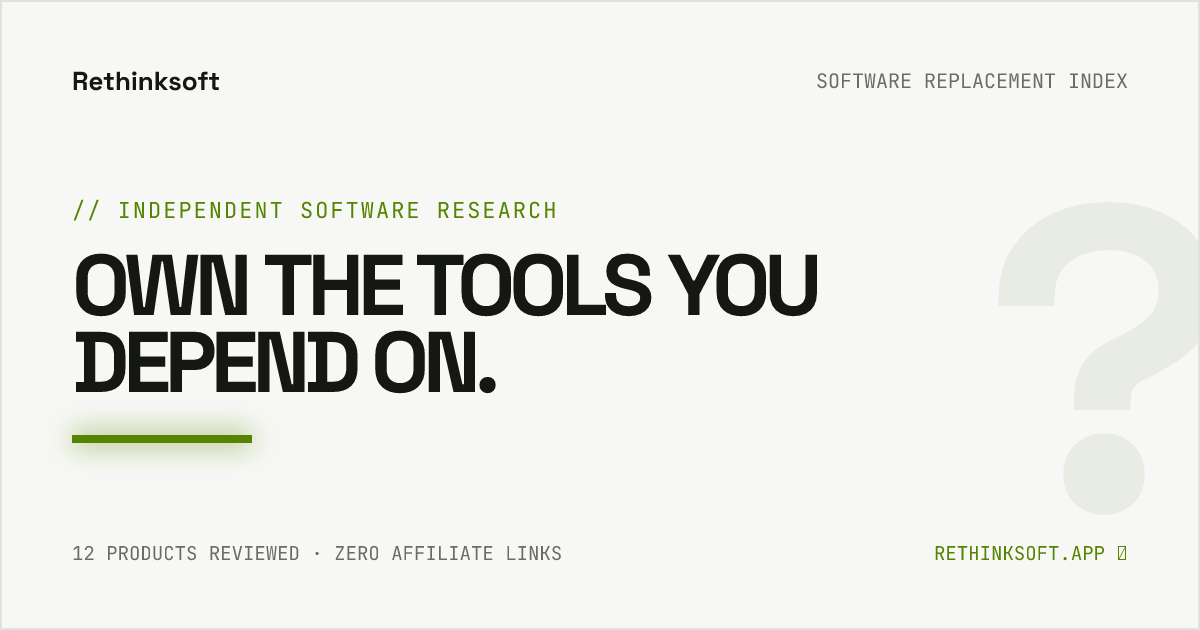
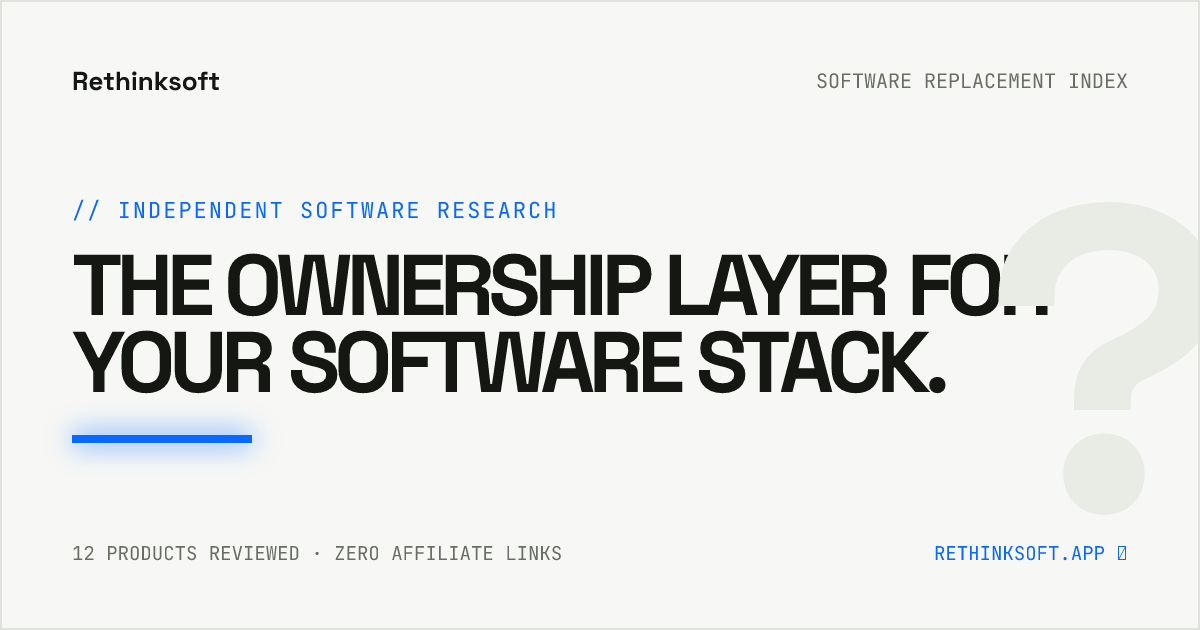
Redesign Rethinksoft with cobalt product storytelling

diff --git a/src/styles/global.css b/src/styles/global.css
@@ -1,11 +1,18 @@
-:root{--bg:#f7f8f5;--surface:#fff;--soft:#f0f2ec;--ink:#151713;--muted:#696e65;--line:#dfe3db;--lime:#b9f227;--lime-dark:#548400;--amber:#c97812;--red:#d64c46;--radius:16px;--shadow:0 18px 55px rgba(24,30,20,.08);color-scheme:light}
+:root{--bg:#fff;--surface:#fff;--soft:#f4f7fb;--ink:#111318;--muted:#646b78;--line:#e2e7ef;--lime:#0868ff;--lime-dark:#0055dc;--amber:#c97812;--red:#d64c46;--radius:14px;--shadow:0 18px 55px rgba(12,45,95,.09);color-scheme:light}
 *{box-sizing:border-box}html{scroll-behavior:smooth}body{margin:0;background:var(--bg);color:var(--ink);font-family:'JetBrains Mono',monospace;font-size:14px;line-height:1.65;overflow-x:hidden}a{color:inherit;text-decoration:none}button,input{font:inherit}button{color:inherit}.sr-only{position:absolute!important;width:1px!important;height:1px!important;padding:0!important;margin:-1px!important;overflow:hidden!important;clip:rect(0,0,0,0)!important;white-space:nowrap!important;border:0!important}.container{width:min(1180px,calc(100% - 48px));margin-inline:auto}
-.site-header{height:78px;display:flex;align-items:center;justify-content:space-between;padding:0 max(24px,calc((100vw - 1180px)/2));border-bottom:1px solid var(--line);position:sticky;top:0;z-index:20;background:rgba(247,248,245,.9);backdrop-filter:blur(18px)}.brand{display:inline-flex;align-items:center;gap:10px;font:700 20px 'Space Grotesk',sans-serif;letter-spacing:-.04em}.brand-mark{display:grid;place-items:center;width:32px;height:32px;border-radius:9px;background:var(--ink);color:var(--lime);font:700 17px 'Space Grotesk';box-shadow:inset 0 0 0 1px rgba(255,255,255,.15)}nav{display:flex;gap:28px;align-items:center;font:600 13px 'Space Grotesk';color:var(--muted)}nav a:hover{color:var(--ink)}.nav-cta{padding:10px 15px;border-radius:10px;background:var(--ink);color:#fff!important}.nav-cta:hover{transform:translateY(-1px);box-shadow:0 8px 22px rgba(20,23,19,.15)}main{min-height:70vh}
+.site-header{height:72px;display:flex;align-items:center;justify-content:space-between;padding:0 max(24px,calc((100vw - 1180px)/2));border-bottom:1px solid var(--line);position:sticky;top:0;z-index:20;background:rgba(255,255,255,.9);backdrop-filter:blur(18px)}.brand{display:inline-flex;align-items:center;gap:10px;font:700 18px 'Space Grotesk',sans-serif;letter-spacing:-.04em}.brand-mark{display:grid;place-items:center;width:30px;height:30px;border-radius:8px;background:var(--lime);color:#fff;font:700 16px 'Space Grotesk';box-shadow:0 5px 18px rgba(8,104,255,.22)}nav{display:flex;gap:26px;align-items:center;font:600 12px 'Space Grotesk';color:var(--muted)}nav a:hover{color:var(--ink)}.nav-cta{padding:10px 15px;border-radius:8px;background:var(--lime);color:#fff!important}.nav-cta:hover{transform:translateY(-1px);box-shadow:0 8px 22px rgba(8,104,255,.22)}main{min-height:70vh}
 .eyebrow{display:flex;align-items:center;gap:8px;color:var(--lime-dark);font-size:11px;letter-spacing:.1em;text-transform:uppercase;margin:0 0 16px;font-weight:600}.eyebrow::before{content:'';width:18px;height:2px;background:var(--lime-dark)}h1,h2,h3{font-family:'Space Grotesk',sans-serif;letter-spacing:-.055em;line-height:1;margin:0}h1{font-size:clamp(58px,8.5vw,112px);font-weight:700}h2{font-size:clamp(38px,5vw,64px)}h3{font-size:23px}.hero{padding:112px 0 80px;position:relative}.hero::after{content:'';position:absolute;width:250px;height:250px;border-radius:50%;right:0;top:80px;background:radial-gradient(circle,var(--lime) 0 2px,transparent 3px);background-size:16px 16px;opacity:.42;z-index:-1;mask-image:linear-gradient(135deg,#000,transparent 75%)}.hero h1{max-width:1000px}.hero h1 em{font-style:normal;color:var(--lime-dark)}.hero-copy{display:grid;grid-template-columns:1.35fr .65fr;gap:70px;align-items:end;margin-top:38px}.hero-copy>p{max-width:680px;color:var(--muted);font:500 19px/1.6 'Space Grotesk'}.hero-stat{border-left:1px solid var(--line);padding-left:28px}.hero-stat strong{display:block;font:700 42px 'Space Grotesk';letter-spacing:-.05em}.hero-stat span{color:var(--muted);font-size:10px;letter-spacing:.07em}.search-shell{margin-top:52px;position:relative}.search-shell::before{content:'⌕';position:absolute;left:22px;top:15px;font:28px 'Space Grotesk';color:var(--ink);z-index:2}.hero-search{width:100%;height:64px;background:var(--surface);color:var(--ink);border:1px solid var(--line);border-radius:14px;padding:0 130px 0 58px;outline:none;box-shadow:0 12px 35px rgba(25,31,21,.06);font-family:'Space Grotesk';font-size:16px}.hero-search:focus{border-color:var(--lime-dark);box-shadow:0 0 0 4px rgba(185,242,39,.18)}.search-key{position:absolute;right:14px;top:14px;padding:6px 10px;border:1px solid var(--line);border-radius:7px;font-size:10px;color:var(--muted);background:var(--soft)}.chips{display:flex;gap:8px;flex-wrap:wrap;margin-top:18px}.chip{border:1px solid var(--line);border-radius:999px;background:var(--surface);padding:8px 12px;cursor:pointer;color:var(--muted);font-size:10px;transition:.18s}.chip:hover,.chip.active{color:var(--ink);border-color:#9bcf11;background:rgba(185,242,39,.18);transform:translateY(-1px)}
 .ticker{width:min(1180px,calc(100% - 48px));margin:0 auto;border:1px solid var(--line);border-radius:var(--radius);background:var(--surface);box-shadow:var(--shadow);overflow:hidden}.ticker-top{display:flex;align-items:stretch}.ticker-label{padding:24px 28px;background:var(--lime);color:var(--ink);font-weight:600;font-size:11px;display:flex;align-items:center;white-space:nowrap}.odometer-wrap{padding:16px 30px;display:flex;align-items:center;gap:12px}.odometer{font:700 clamp(34px,5vw,56px)/1 'Space Grotesk';letter-spacing:-.045em;font-variant-numeric:tabular-nums}.odometer-wrap small{color:var(--muted);font-size:9px}.tape{border-top:1px solid var(--line);padding:8px 0;white-space:nowrap;overflow:hidden;font-size:10px;color:var(--muted);background:var(--soft)}.tape-track{display:inline-flex;gap:40px;animation:tape 34s linear infinite}.tape b{color:var(--lime-dark);font-weight:600}
 .section{padding:110px 0}.section-head{display:flex;align-items:end;justify-content:space-between;margin-bottom:38px;gap:30px}.section-head p{max-width:470px;color:var(--muted);margin:0;font-family:'Space Grotesk';font-size:16px}.table-shell{border:1px solid var(--line);border-radius:var(--radius);background:var(--surface);box-shadow:var(--shadow);overflow:hidden}.list-header,.app-row{display:grid;grid-template-columns:70px 1.75fr 1fr 100px 130px 90px;align-items:center}.list-header{min-height:46px;padding:0 20px;border-bottom:1px solid var(--line);color:var(--muted);font-size:9px;letter-spacing:.09em;background:var(--soft)}.app-row{min-height:82px;padding:0 20px;border-bottom:1px solid var(--line);transition:.18s}.app-row:last-child{border:0}.app-row:hover{background:#fbfcf9;transform:translateX(4px)}.rank{color:#9ba097}.app-id{display:flex;align-items:center;gap:14px;font:600 16px 'Space Grotesk'}.favicon{width:36px;height:36px;border:1px solid var(--line);border-radius:9px;background:var(--surface);padding:6px;object-fit:contain}.category,.price,.votes{font-size:11px;color:var(--muted)}.votes{color:var(--ink);font-weight:600}.votes::before{content:'↑';color:var(--lime-dark);margin-right:5px}.verdict{display:inline-flex;width:max-content;border-radius:999px;padding:5px 9px;font-size:9px;font-weight:600;letter-spacing:.04em}.verdict-yes{color:#3f6e00;background:#e7f8be}.verdict-kinda{color:#925208;background:#fff0d6}.verdict-no{color:#a93a35;background:#fde4e2}.empty-state{display:none;padding:45px;text-align:center;color:var(--muted)}
 .waitlist{padding:30px 0 110px}.wait-card{display:grid;grid-template-columns:1fr 1fr;gap:70px;border-radius:24px;padding:62px;background:var(--ink);color:#fff;box-shadow:var(--shadow)}.wait-card .eyebrow{color:var(--lime)}.wait-card .eyebrow::before{background:var(--lime)}.wait-card p{color:#abb0a7}.wait-form{display:flex;align-items:center;margin-top:24px}.wait-form input[type=email]{flex:1;min-width:0;background:#fff;border:0;border-radius:10px 0 0 10px;padding:15px;color:var(--ink);outline:none}.button{border:0;border-radius:10px;background:var(--lime);color:var(--ink);padding:15px 20px;font-weight:600;cursor:pointer;display:inline-flex;align-items:center;justify-content:center;gap:8px;transition:.18s}.wait-form .button{border-radius:0 10px 10px 0}.button:hover{transform:translateY(-2px);box-shadow:0 10px 24px rgba(185,242,39,.24)}.button:active{transform:scale(.98)}.button.secondary{background:var(--soft);color:var(--ink);border:1px solid var(--line)}.form-note{font-size:10px;min-height:1.6em}.hp{position:absolute!important;left:-9999px!important}
 .site-footer{border-top:1px solid var(--line);padding:64px max(24px,calc((100vw - 1180px)/2)) 28px;background:var(--surface)}.footer-grid{display:grid;grid-template-columns:1.5fr .6fr 1fr;gap:50px}.footer-grid p,.footer-grid a{display:block;color:var(--muted);font-size:11px}.footer-grid a:hover{color:var(--lime-dark)}.footer-line{border-top:1px solid var(--line);margin-top:48px;padding-top:22px;display:flex;justify-content:space-between;color:var(--muted);font-size:10px}.footer-line i{display:inline-block;width:7px;height:7px;background:#70bd00;border-radius:50%;margin-right:6px}
 .crumbs{padding:28px 0;font-size:10px;color:var(--muted)}.crumbs a:hover{color:var(--lime-dark)}.detail-hero{padding:52px 0 86px;border-bottom:1px solid var(--line);background:linear-gradient(180deg,#fff,var(--bg))}.detail-top{display:grid;grid-template-columns:1fr auto;gap:40px;align-items:start}.detail-brand{display:flex;align-items:center;gap:18px;margin-bottom:32px}.detail-brand .favicon{width:54px;height:54px}.detail-brand span{color:var(--muted)}.verdict-display{text-align:right}.verdict-display .eyebrow{justify-content:flex-end;margin-bottom:14px}.verdict-big{font:700 clamp(52px,9vw,112px)/.85 'Space Grotesk';letter-spacing:-.075em}.verdict-big.yes{color:#5f9500}.verdict-big.kinda{color:var(--amber)}.verdict-big.no{color:var(--red)}.detail-summary{display:grid;grid-template-columns:1fr 350px;gap:70px;align-items:end;margin-top:56px}.detail-summary p{font:500 20px/1.55 'Space Grotesk';color:var(--muted);max-width:720px}.metric-box{border:1px solid var(--line);border-radius:12px;display:grid;grid-template-columns:1fr 1fr;background:var(--surface);overflow:hidden}.metric{padding:20px;border-right:1px solid var(--line)}.metric:last-child{border:0}.metric strong{display:block;font:700 27px 'Space Grotesk'}.metric span{font-size:8px;color:var(--muted);letter-spacing:.06em}.detail-grid{display:grid;grid-template-columns:minmax(0,1.6fr) minmax(270px,.65fr);gap:50px;padding:90px 0}.block{margin-bottom:72px}.block-head{display:flex;justify-content:space-between;align-items:end;margin-bottom:22px}.block-head p{font-size:9px;color:var(--muted)}.code-wrap{border:1px solid var(--line);border-radius:14px;background:var(--surface);box-shadow:var(--shadow);overflow:hidden}.code-toolbar{display:flex;align-items:center;justify-content:space-between;border-bottom:1px solid var(--line);padding:11px 14px;color:var(--muted);font-size:9px;background:var(--soft)}.dots{display:flex;gap:5px}.dots i{width:7px;height:7px;border-radius:50%;background:#bec3b9}.dots i:first-child{background:#ec817b}.dots i:nth-child(2){background:#e6b85d}.dots i:last-child{background:#8fca47}pre{margin:0;padding:28px;white-space:pre-wrap;word-break:break-word;color:#394035;font:12px/1.85 'JetBrains Mono';max-height:430px;overflow:auto}.agent-buttons{display:grid;grid-template-columns:repeat(3,1fr);gap:9px;margin-top:10px}.copy-button{border:1px solid var(--line);border-radius:9px;background:var(--surface);padding:12px;cursor:pointer;font-size:9px;transition:.18s}.copy-button:hover,.copy-button.copied{border-color:#98cb10;color:#4b7800;transform:translateY(-2px)}.loss-list{list-style:none;margin:0;padding:0;border-top:1px solid var(--line)}.loss-list li{padding:18px 0;border-bottom:1px solid var(--line);display:flex;gap:13px;font-family:'Space Grotesk';font-size:16px}.loss-list li::before{content:'×';color:var(--red);font-weight:600}.notes{border-left:3px solid var(--lime);padding:8px 0 8px 22px;color:var(--muted);font-family:'Space Grotesk';font-size:17px}.side-card{border:1px solid var(--line);border-radius:14px;padding:26px;margin-bottom:18px;background:var(--surface);position:sticky;top:104px;box-shadow:var(--shadow)}.side-card h3{font-size:22px;margin-bottom:10px}.side-card p{font-size:11px;color:var(--muted)}.vote-button{width:100%;margin-top:14px}.vote-button.voted{background:#e4f7b9;color:#456f00}.share-button{width:100%;margin-top:8px}.prior-links a{display:flex;justify-content:space-between;border-top:1px solid var(--line);padding:15px 0;font-size:11px}.prior-links a:hover{color:var(--lime-dark);padding-left:5px}.related-grid{display:grid;grid-template-columns:repeat(3,1fr);gap:14px}.related{border:1px solid var(--line);border-radius:12px;padding:20px;background:var(--surface);transition:.18s}.related:hover{transform:translateY(-5px);border-color:#a3d51d;box-shadow:var(--shadow)}.related .favicon{margin-bottom:20px}.related p{color:var(--muted);font-size:10px}.faq details{border-top:1px solid var(--line);padding:22px 0}.faq details:last-child{border-bottom:1px solid var(--line)}.faq summary{cursor:pointer;font-family:'Space Grotesk';font-weight:700;font-size:18px;list-style:none}.faq summary::after{content:'+';float:right;color:var(--lime-dark)}.faq details[open] summary::after{content:'−'}.faq details p{color:var(--muted);max-width:750px;font-family:'Space Grotesk';font-size:16px}.reveal{opacity:0;transform:translateY(14px);transition:opacity .5s ease,transform .5s ease}.reveal.visible{opacity:1;transform:none}
+/* Supermemory-inspired product storytelling */
+.hero{text-align:center;padding:104px 0 72px}.hero::after{width:420px;height:260px;right:50%;top:65px;transform:translateX(50%);background:radial-gradient(circle,rgba(8,104,255,.22) 0 1px,transparent 2px);background-size:14px 14px;opacity:.65;mask-image:radial-gradient(ellipse,#000,transparent 68%)}.hero .eyebrow{justify-content:center;margin-top:22px}.hero-badge{display:inline-flex;align-items:center;gap:8px;border:1px solid #d9e5f8;border-radius:999px;background:#f7faff;padding:6px 10px;color:#536174;font-size:9px;text-transform:uppercase;letter-spacing:.07em}.hero-badge span{width:6px;height:6px;border-radius:50%;background:var(--lime);box-shadow:0 0 0 4px rgba(8,104,255,.12)}.hero h1{max-width:1050px;margin:0 auto;font-size:clamp(58px,7.8vw,104px);line-height:.96}.hero h1 em{color:var(--lime);font-style:normal;position:relative;white-space:nowrap}.hero h1 em::after{content:'';position:absolute;left:-8px;right:-8px;bottom:-2px;height:10px;border:1px solid rgba(8,104,255,.35);border-top:0}.hero-lede{max-width:720px;margin:32px auto 0;color:var(--muted);font:500 18px/1.6 'Space Grotesk'}.hero-actions{display:flex;justify-content:center;align-items:center;gap:22px;margin-top:26px}.hero-actions .button{background:var(--lime);color:#fff;padding:13px 19px;border-radius:7px}.text-link{font:600 12px 'Space Grotesk';color:var(--muted)}.text-link:hover{color:var(--lime)}.hero .search-shell{max-width:850px;margin:48px auto 0}.hero .chips{justify-content:center;max-width:980px;margin:16px auto 0}.trust-row{display:flex;justify-content:center;align-items:center;gap:28px;margin-top:34px;color:#9097a3;font-size:9px;text-transform:uppercase;letter-spacing:.05em}.trust-row span{color:#555f6d}.trust-row b{font-weight:500;position:relative}.trust-row b::before{content:'✓';color:var(--lime);margin-right:6px}
+.blue-stage{height:390px;margin-top:10px;position:relative;display:grid;place-items:center;overflow:hidden;background:radial-gradient(circle at 50% 85%,#096dff 0,#044cca 28%,#071e65 65%,#05091a 100%);border-block:1px solid #0a5ae2}.stage-grid{position:absolute;inset:0;background-image:linear-gradient(rgba(255,255,255,.05) 1px,transparent 1px),linear-gradient(90deg,rgba(255,255,255,.05) 1px,transparent 1px);background-size:42px 42px;mask-image:radial-gradient(circle at center,#000,transparent 70%)}.stage-orbit{position:absolute;border:1px solid rgba(116,179,255,.3);border-radius:50%}.orbit-one{width:500px;height:500px}.orbit-two{width:730px;height:230px;transform:rotate(-8deg)}.stage-core{position:relative;z-index:3;width:176px;height:176px;border-radius:36px;display:flex;flex-direction:column;align-items:center;justify-content:center;background:rgba(255,255,255,.96);box-shadow:0 35px 90px rgba(0,0,0,.35),0 0 80px rgba(54,137,255,.45);transform:rotate(-4deg)}.stage-core .brand-mark{width:50px;height:50px;font-size:26px;margin-bottom:15px}.stage-core b{font:700 18px 'Space Grotesk';letter-spacing:-.04em}.stage-core small{font-size:7px;color:var(--muted);margin-top:4px}.stage-card{position:absolute;z-index:2;width:170px;padding:17px;border:1px solid rgba(255,255,255,.25);border-radius:12px;background:rgba(255,255,255,.94);box-shadow:0 20px 60px rgba(0,0,0,.25);display:grid}.stage-card small{color:var(--muted);font-size:9px}.stage-card strong{font:700 28px 'Space Grotesk';color:var(--lime);margin:8px 0}.stage-card span{font-size:8px;color:#87909d}.stage-left{left:calc(50% - 370px);top:80px;transform:rotate(5deg)}.stage-right{right:calc(50% - 370px);bottom:58px;transform:rotate(-5deg)}
+.ticker{margin-top:-32px;position:relative;z-index:4}.ticker-label{background:var(--lime);color:#fff}.odometer{color:var(--lime)}.tape b{color:var(--lime)}.centered-head{display:block;text-align:center}.centered-head .eyebrow{justify-content:center}.centered-head>p{margin:20px auto 0}.decision-section{padding-top:125px}.decision-grid{display:grid;grid-template-columns:repeat(3,1fr);gap:14px}.decision-card{min-height:400px;border:1px solid var(--line);background:#f7faff;padding:26px;display:flex;flex-direction:column}.decision-card.featured{background:var(--lime);color:#fff;border-color:var(--lime)}.decision-card .card-index{font-size:9px;opacity:.65}.decision-card h3{margin-top:auto}.decision-card>p{font:500 14px/1.55 'Space Grotesk';color:var(--muted);margin-bottom:0}.decision-card.featured>p{color:rgba(255,255,255,.78)}.mini-verdict,.mini-code,.mini-loss{height:200px;margin:28px 0;display:flex;align-items:center;justify-content:center}.mini-verdict{gap:8px}.mini-verdict i{font:700 11px 'Space Grotesk';font-style:normal;border:1px solid rgba(255,255,255,.5);padding:9px 11px;background:rgba(255,255,255,.12)}.mini-verdict i:nth-child(2){transform:translateY(-22px);background:#fff;color:var(--lime);box-shadow:0 15px 35px rgba(0,35,110,.2)}.mini-code{background:#fff;border:1px solid #dee7f5;flex-direction:column;align-items:flex-start;padding:35px;gap:13px;box-shadow:0 15px 40px rgba(26,74,145,.08)}.mini-code i{display:block;height:8px;border-radius:3px;background:#dbe7f8;width:88%}.mini-code i:nth-child(2){width:62%;background:#77aefb}.mini-code i:nth-child(3){width:76%}.mini-code i:nth-child(4){width:45%}.mini-loss{display:grid;grid-template-columns:25px 1fr;align-content:center;gap:11px;background:#fff;border:1px solid #e1e9f4;padding:28px}.mini-loss i{font-style:normal;color:#e2625d}.mini-loss span{font:600 12px 'Space Grotesk';color:#566070}
+.how-section{background:#eef6ff;border-block:1px solid #d9e9ff}.how-grid{display:grid;grid-template-columns:repeat(3,1fr);gap:14px}.how-card{background:#fff;border:1px solid #dbe8f8;padding:24px}.how-card>small{font-size:9px;color:var(--lime)}.how-card h3{font-size:23px;margin:12px 0}.how-card p{font:500 14px/1.55 'Space Grotesk';color:var(--muted)}.how-visual{height:230px;margin-bottom:25px;background:#f3f8ff;border:1px solid #e1ecfa;position:relative;overflow:hidden}.visual-search{display:flex;flex-direction:column;justify-content:center;padding:45px;gap:12px}.visual-search span{position:absolute;right:35px;top:35px;font:700 38px 'Space Grotesk';color:var(--lime)}.visual-search i{height:12px;background:#cfe2fb;width:75%}.visual-search i:nth-of-type(2){width:55%}.visual-search i:nth-of-type(3){width:65%;background:#7cb1fb}.visual-decide{display:flex;align-items:center;justify-content:center;gap:8px}.visual-decide span{padding:12px 10px;background:#fff;border:1px solid #d9e6f7;font:700 9px 'Space Grotesk';color:#728094}.visual-decide span:nth-child(2){background:var(--lime);color:#fff;border-color:var(--lime);transform:translateY(-25px);box-shadow:0 15px 30px rgba(8,104,255,.23)}.visual-build{display:flex;flex-direction:column;gap:14px;justify-content:center;padding:48px}.visual-build i{height:9px;width:75%;background:#cfe1fa}.visual-build i:nth-child(2){width:56%}.visual-build i:nth-child(3){width:68%}.visual-build b{position:absolute;right:32px;bottom:30px;display:grid;place-items:center;width:42px;height:42px;border-radius:50%;background:var(--lime);color:#fff;font-size:20px}.wait-card{background:linear-gradient(135deg,#0868ff,#034ab9)}.wait-card .eyebrow{color:#fff}.wait-card .eyebrow::before{background:#fff}.button{background:var(--lime);color:#fff}.button.secondary{color:var(--ink)}
 @keyframes tape{to{transform:translateX(-50%)}}@media(prefers-reduced-motion:reduce){*,*::before,*::after{scroll-behavior:auto!important;animation-duration:.01ms!important;animation-iteration-count:1!important;transition-duration:.01ms!important}.reveal{opacity:1;transform:none}}
 @media(max-width:800px){.site-header{height:68px;padding:0 20px}.site-header nav a:not(.nav-cta){display:none}.nav-cta{font-size:11px}.container,.ticker{width:min(100% - 32px,1180px)}.hero{padding:72px 0 55px}.hero::after{display:none}.hero-copy,.wait-card,.detail-summary,.detail-grid{grid-template-columns:1fr}.hero-copy{gap:20px}.hero-stat{border-left:0;border-top:1px solid var(--line);padding:18px 0 0}.ticker-top{display:block}.ticker-label{padding:10px 20px}.list-header{display:none}.app-row{grid-template-columns:38px 1fr auto;gap:8px;min-height:88px;padding:10px 14px}.app-row .category,.app-row .price,.app-row .votes{display:none}.app-row .verdict{justify-self:end}.section{padding:74px 0}.section-head{display:block}.section-head p{margin-top:18px}.wait-card{padding:34px;gap:26px}.wait-form{display:block}.wait-form input[type=email],.wait-form .button{width:100%;border-radius:9px}.wait-form .button{margin-top:8px}.footer-grid{grid-template-columns:1fr}.footer-line{display:block}.footer-line span{display:block;margin-top:8px}.detail-top{grid-template-columns:1fr}.verdict-display{text-align:left}.verdict-display .eyebrow{justify-content:flex-start}.detail-summary{gap:24px}.detail-grid{padding-top:58px}.side-card{position:static}.agent-buttons,.related-grid{grid-template-columns:1fr}}
+@media(max-width:800px){.hero h1{font-size:clamp(46px,14vw,72px)}.hero h1 em{white-space:normal}.hero-lede{font-size:16px}.hero-actions{flex-direction:column;gap:13px}.trust-row{gap:10px 18px;flex-wrap:wrap}.blue-stage{height:330px}.stage-core{width:140px;height:140px}.stage-left{left:18px;top:45px}.stage-right{right:18px;bottom:35px}.stage-card{width:125px;padding:12px}.stage-card strong{font-size:21px}.orbit-one{width:380px;height:380px}.orbit-two{width:470px}.decision-grid,.how-grid{grid-template-columns:1fr}.decision-card{min-height:360px}.decision-section{padding-top:95px}.centered-head{text-align:left}.centered-head .eyebrow{justify-content:flex-start}.centered-head>p{margin:18px 0 0}.how-card{padding:18px}.how-visual{height:200px}}
+.hero-search{box-shadow:0 12px 35px rgba(15,61,126,.07)}.hero-search:focus{box-shadow:0 0 0 4px rgba(8,104,255,.14)}.chip:hover,.chip.active{color:#0453c6;border-color:#8bb9ff;background:#edf5ff}.copy-button:hover,.copy-button.copied{border-color:#77aaff;color:#075adf}.related:hover{border-color:#78abff}.wait-card p{color:#dbe8ff}.button{color:#fff}.button:hover{box-shadow:0 10px 24px rgba(8,104,255,.24)}.button.secondary{color:var(--ink)}
